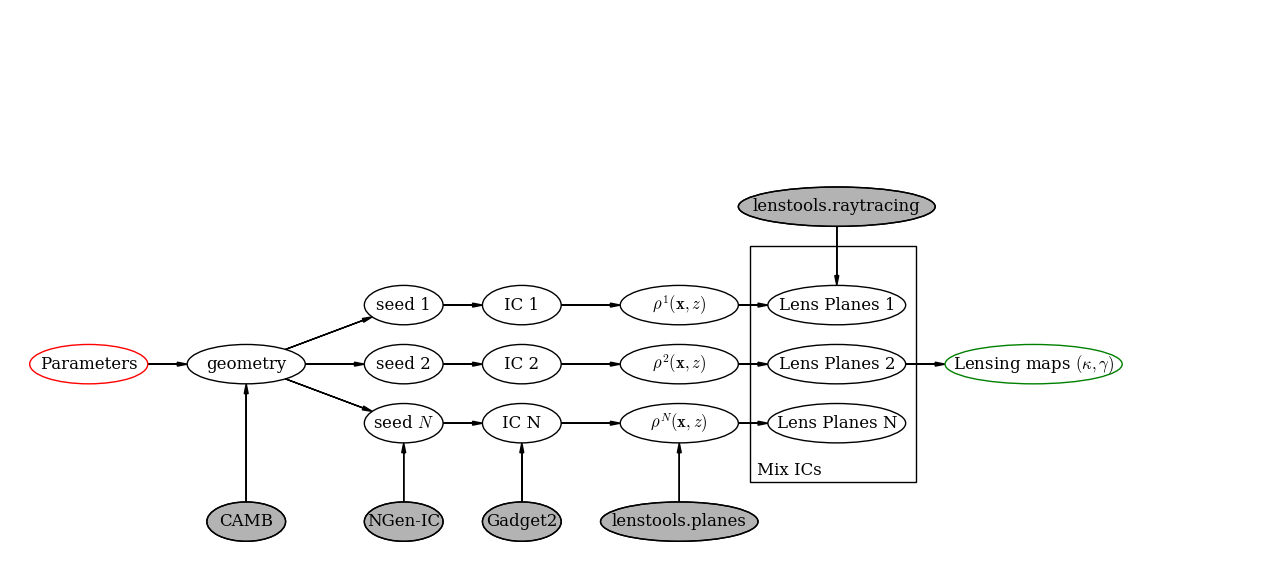
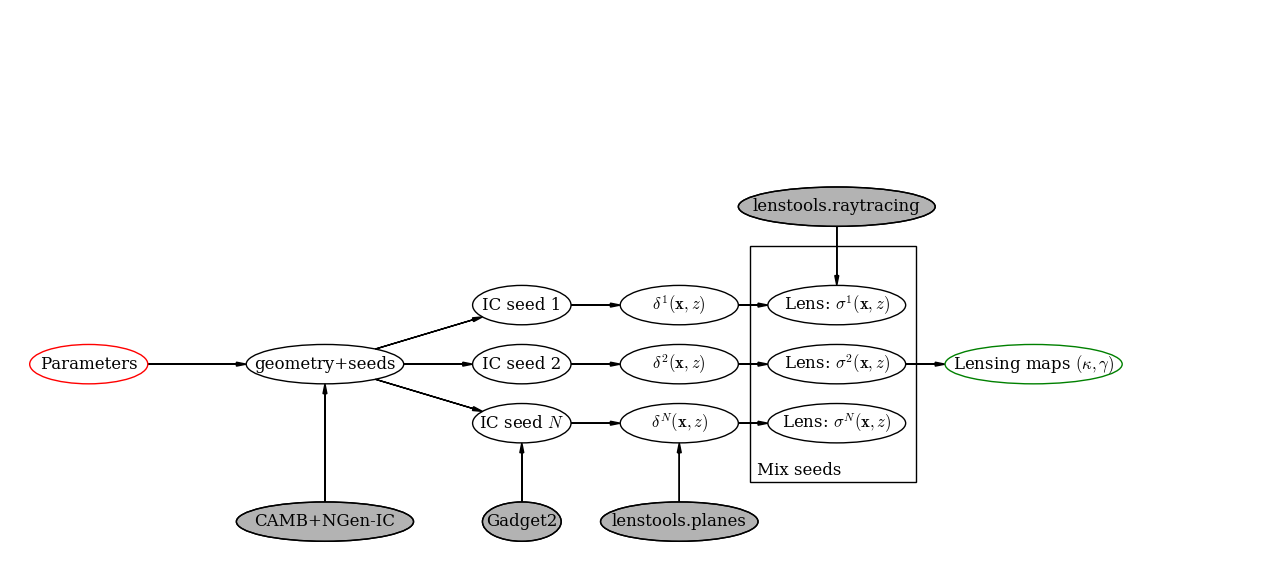
update docs

diff --git a/docs/source/pipeline_flow.py b/docs/source/pipeline_flow.py
@@ -1,74 +1,71 @@
 from matplotlib import rc
 import daft
 
-rc("font", family="serif", size=12)
-rc("text", usetex=False)
 
-r_color = {"ec" : "red"}
-g_color = {"ec" : "green"}
+def flow(ftype="png"):
 
-#Instantiate PGM
-pgm = daft.PGM([16,7],origin=[0,0])
+	rc("font", family="serif", size=12)
+	rc("text", usetex=False)
 
-#Nodes
-pgm.add_node(daft.Node("parameters","Parameters",1,2.5,aspect=3.,plot_params=r_color))
-pgm.add_node(daft.Node("geometry","geometry",3,2.5,aspect=3.))
+	r_color = {"ec" : "red"}
+	g_color = {"ec" : "green"}
 
-#Seeds
-pgm.add_node(daft.Node("seed1","seed 1",5,3.25,aspect=2.))
-pgm.add_node(daft.Node("seed2","seed 2",5,2.5,aspect=2.))
-pgm.add_node(daft.Node("seedN",r"seed $N$",5,1.75,aspect=2.))
+	#Instantiate PGM
+	pgm = daft.PGM([16,7],origin=[0,0])
 
-#ICS
-pgm.add_node(daft.Node("ic1","IC 1",6.5,3.25,aspect=2.))
-pgm.add_node(daft.Node("ic2","IC 2",6.5,2.5,aspect=2.))
-pgm.add_node(daft.Node("icN","IC N",6.5,1.75,aspect=2.))
+	#Nodes
+	pgm.add_node(daft.Node("parameters","Parameters",1,2.5,aspect=3.,plot_params=r_color))
+	pgm.add_node(daft.Node("geometry","geometry+seeds",4,2.5,aspect=4.))
+	
+	#ICS
+	pgm.add_node(daft.Node("ic1","IC seed 1",6.5,3.25,aspect=2.5))
+	pgm.add_node(daft.Node("ic2","IC seed 2",6.5,2.5,aspect=2.5))
+	pgm.add_node(daft.Node("icN",r"IC seed $N$",6.5,1.75,aspect=2.5))
 
-#Evolution
-pgm.add_node(daft.Node("e1",r"$\rho^1(\mathbf{x},z)$",8.5,3.25,aspect=3.))
-pgm.add_node(daft.Node("e2",r"$\rho^2(\mathbf{x},z)$",8.5,2.5,aspect=3.))
-pgm.add_node(daft.Node("eN",r"$\rho^N(\mathbf{x},z)$",8.5,1.75,aspect=3.))
+	#Evolution
+	pgm.add_node(daft.Node("e1",r"$\delta^1(\mathbf{x},z)$",8.5,3.25,aspect=3.))
+	pgm.add_node(daft.Node("e2",r"$\delta^2(\mathbf{x},z)$",8.5,2.5,aspect=3.))
+	pgm.add_node(daft.Node("eN",r"$\delta^N(\mathbf{x},z)$",8.5,1.75,aspect=3.))
 
-#Lens Planes
-pgm.add_node(daft.Node("p1","Lens Planes 1",10.5,3.25,aspect=3.5))
-pgm.add_node(daft.Node("p2","Lens Planes 2",10.5,2.5,aspect=3.5))
-pgm.add_node(daft.Node("pN","Lens Planes N",10.5,1.75,aspect=3.5))
+	#Lens Planes
+	pgm.add_node(daft.Node("p1",r"Lens: $\sigma^1(\mathbf{x},z)$",10.5,3.25,aspect=3.5))
+	pgm.add_node(daft.Node("p2",r"Lens: $\sigma^2(\mathbf{x},z)$",10.5,2.5,aspect=3.5))
+	pgm.add_node(daft.Node("pN",r"Lens: $\sigma^N(\mathbf{x},z)$",10.5,1.75,aspect=3.5))
 
-#Mix planes
-pgm.add_plate(daft.Plate([9.4,1.0,2.1,3.0],label="Mix realizations"))
+	#Mix planes
+	pgm.add_plate(daft.Plate([9.4,1.0,2.1,3.0],label="Mix seeds"))
 
-#Lensing maps
-pgm.add_node(daft.Node("lens","Lensing maps",13.0,2.5,aspect=3.5,plot_params=g_color))
+	#Lensing maps
+	pgm.add_node(daft.Node("lens","Lensing maps " + r"$(\kappa,\gamma)$",13.0,2.5,aspect=4.5,plot_params=g_color))
 
-#Executables
-pgm.add_node(daft.Node("camb","CAMB",3,0.5,aspect=2.,observed=True))
-pgm.add_node(daft.Node("ngenic","NGen-IC",5,0.5,aspect=2.,observed=True))
-pgm.add_node(daft.Node("gadget","Gadget2",6.5,0.5,aspect=2.,observed=True))
-pgm.add_node(daft.Node("planes","lenstools.planes",8.5,0.5,aspect=4.,observed=True))
-pgm.add_node(daft.Node("ray","lenstools.raytracing",10.5,4.5,aspect=5.,observed=True))
+	#Executables
+	pgm.add_node(daft.Node("camb","CAMB+NGen-IC",4,0.5,aspect=4.5,observed=True))
+	pgm.add_node(daft.Node("gadget","Gadget2",6.5,0.5,aspect=2.,observed=True))
+	pgm.add_node(daft.Node("planes","lenstools.planes",8.5,0.5,aspect=4.,observed=True))
+	pgm.add_node(daft.Node("ray","lenstools.raytracing",10.5,4.5,aspect=5.,observed=True))
 
-#Edges
-pgm.add_edge("parameters","geometry")
-pgm.add_edge("geometry","seed1")
-pgm.add_edge("geometry","seed2")
-pgm.add_edge("geometry","seedN")
-pgm.add_edge("seed1","ic1")
-pgm.add_edge("seed2","ic2")
-pgm.add_edge("seedN","icN")
-pgm.add_edge("ic1","e1")
-pgm.add_edge("ic2","e2")
-pgm.add_edge("icN","eN")
-pgm.add_edge("e1","p1")
-pgm.add_edge("e2","p2")
-pgm.add_edge("eN","pN")
-pgm.add_edge("p2",'lens')
-pgm.add_edge("camb","geometry")
-pgm.add_edge("ngenic","seedN")
-pgm.add_edge("gadget","icN")
-pgm.add_edge("planes","eN")
-pgm.add_edge("ray","p1")
+	#Edges
+	pgm.add_edge("parameters","geometry")
+	pgm.add_edge("geometry","ic1")
+	pgm.add_edge("geometry","ic2")
+	pgm.add_edge("geometry","icN")
+	pgm.add_edge("ic1","e1")
+	pgm.add_edge("ic2","e2")
+	pgm.add_edge("icN","eN")
+	pgm.add_edge("e1","p1")
+	pgm.add_edge("e2","p2")
+	pgm.add_edge("eN","pN")
+	pgm.add_edge("p2",'lens')
+	pgm.add_edge("camb","geometry")
+	pgm.add_edge("gadget","icN")
+	pgm.add_edge("planes","eN")
+	pgm.add_edge("ray","p1")
 
-#Render and save
-pgm.render()
-pgm.figure.savefig("figures/flow.png")
+	#Render and save
+	pgm.render()
+	pgm.figure.savefig("figures/flow."+ftype)
+
+
+if __name__=="__main__":
+	flow()
 
